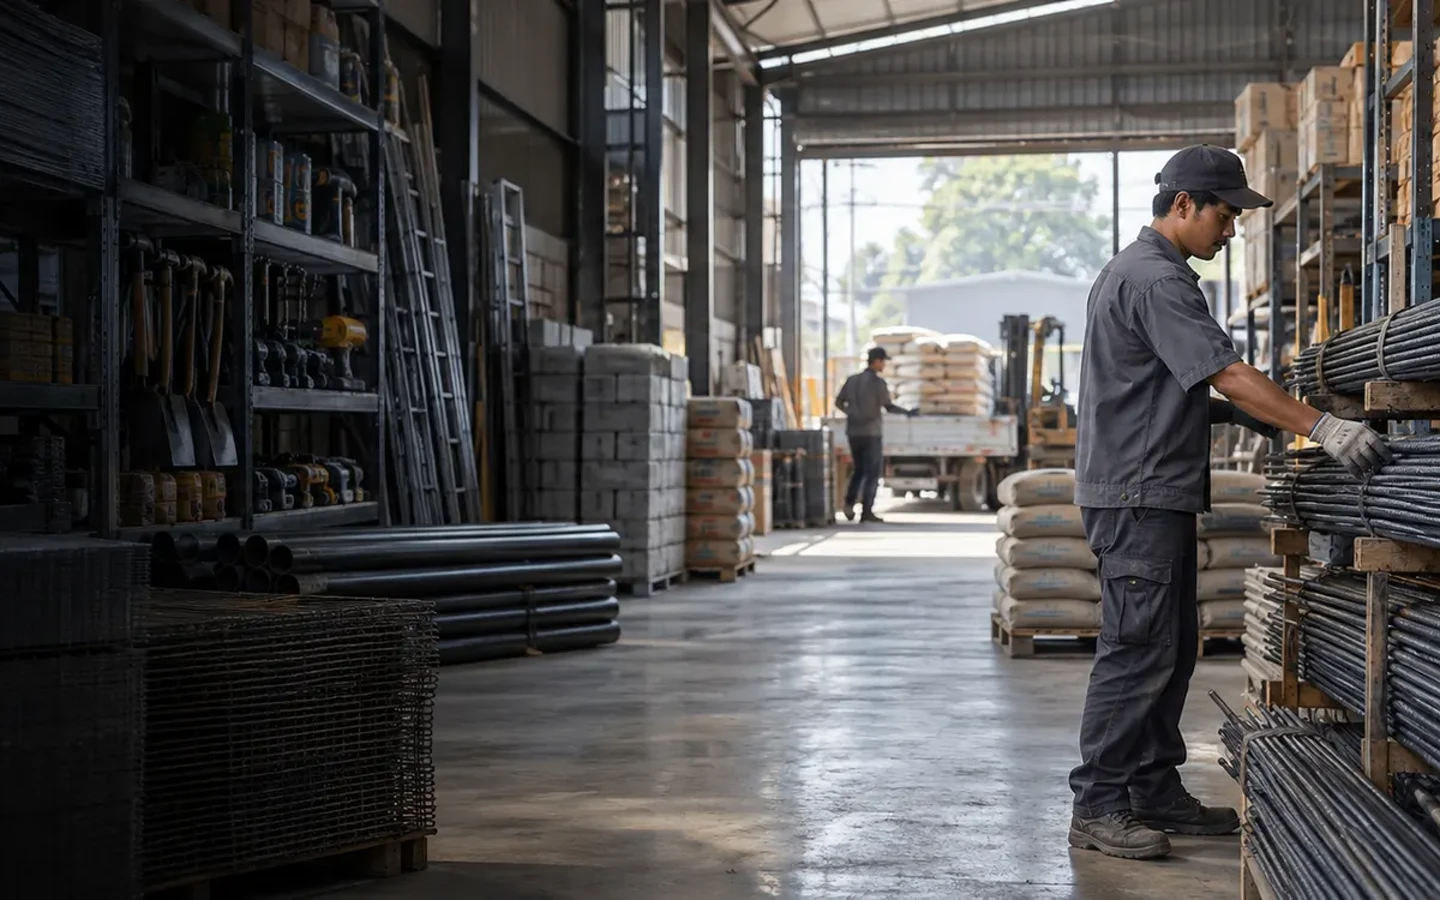
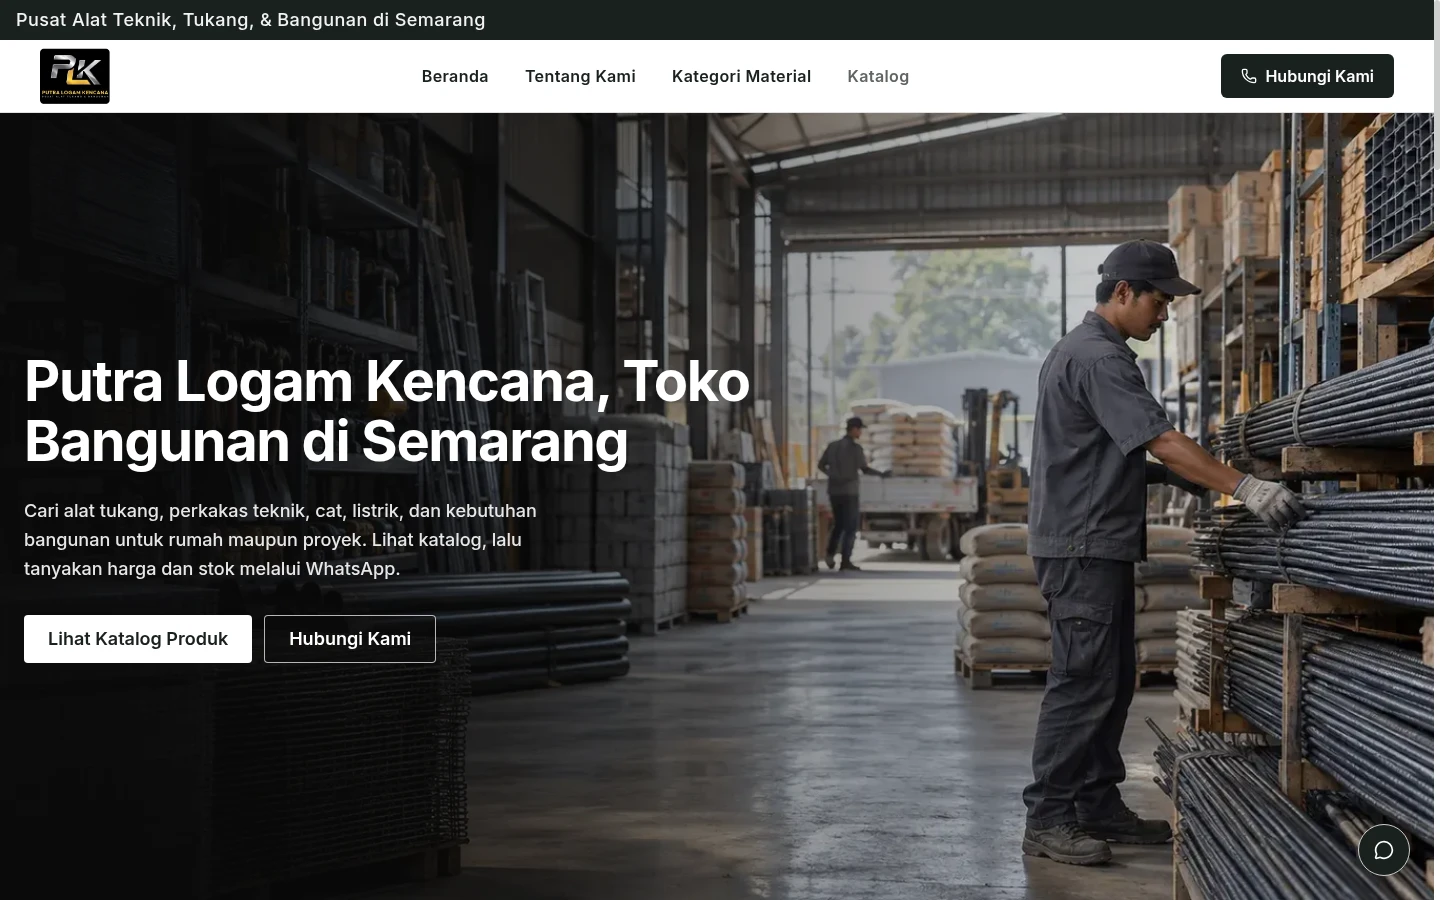
fix(portfolio): use live landing page hero screenshots for Jaggad, Gekrafs, PLK, and AsKonveksi

diff --git a/components/Portfolio.tsx b/components/Portfolio.tsx
@@ -71,7 +71,7 @@ const clientProjects = [
     industry: "E-Learning & Digital Products",
     description:
       "Platform edukasi digital modern untuk penjualan kelas online, kursus interaktif, dan produk digital seperti e-book. Dilengkapi integrasi payment gateway Midtrans (QRIS, VA, E-Wallet), Google OAuth login, member area & akses materi, serta dashboard CMS admin.",
-    image: "/images/jaggad-academy.webp",
+    image: "/images/jaggad-academy-hero.webp",
     modules: [
       "Katalog Kelas & E-Book",
       "Payment Gateway (Midtrans)",
@@ -91,7 +91,7 @@ const clientProjects = [
     industry: "Event Management & Ticketing",
     description:
       "Sistem pemesanan dan ticketing event digital terintegrasi — mencakup landing page event, alur checkout pemesanan tiket online, generate e-ticket ber-QR code otomatis via email, hingga scanner QR absensi check-in peserta di venue event.",
-    image: "/images/gekrafs-ticketing.webp",
+    image: "/images/gekrafs-ticketing-hero.webp",
     modules: [
       "Landing Page Event",
       "Pemesanan & Checkout Tiket",
@@ -111,7 +111,7 @@ const clientProjects = [
     industry: "Toko Bangunan",
     description:
       "Sistem ERP + CRM terintegrasi untuk mengelola operasional toko bangunan — mulai dari stok & pembelian hingga penjualan, piutang, dan relasi pelanggan dalam satu platform.",
-    image: "/images/erp-plk.webp",
+    image: "/images/plk-hero.webp",
     modules: [
       "Manajemen Stok",
       "Pembelian & Supplier",
@@ -131,7 +131,7 @@ const clientProjects = [
     industry: "Konveksi",
     description:
       "Sistem ERP + CRM untuk bisnis konveksi — mengelola order produksi, bahan baku, progres jahit, hingga relasi pelanggan dalam satu dashboard.",
-    image: "/images/erp-askonveksi.webp",
+    image: "/images/askonveksi-hero.webp",
     modules: [
       "Manajemen Order",
       "Produksi & Progres",
